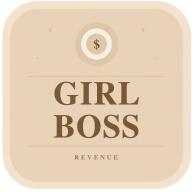
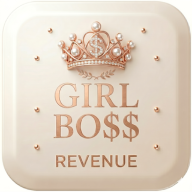
正向回饋改為3秒消失、更新圖示

diff --git a/src/App.jsx b/src/App.jsx
@@ -548,7 +548,7 @@ function DashboardView({ orders, customers, products, profile }) {
     if (msg) {
       setAchievement(msg);
       setShowAchievement(true);
-      const timer = setTimeout(() => setShowAchievement(false), 10000);
+      const timer = setTimeout(() => setShowAchievement(false), 3000);
       return () => clearTimeout(timer);
     }
   }, [orders, profile]);